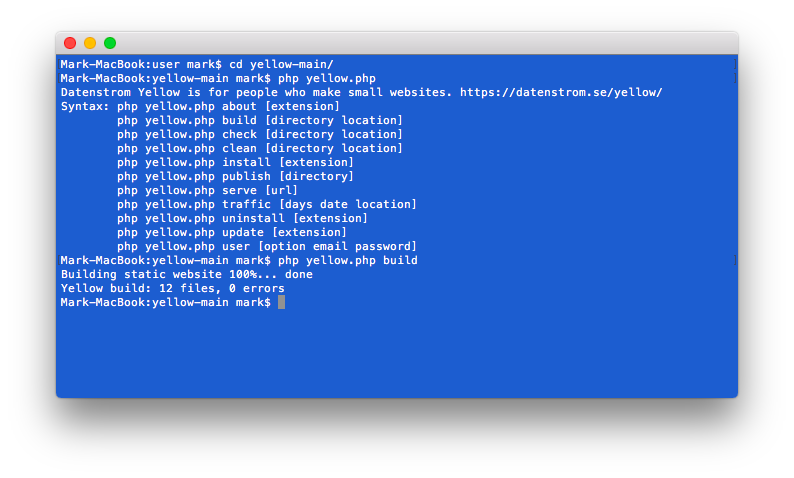
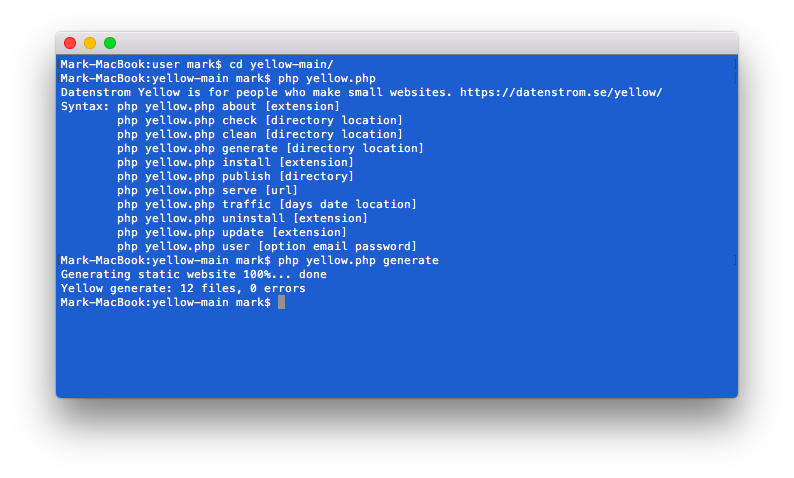
Updated static site generator

Changed region(s): [[0.0605, 0.5565, 0.4232, 0.6151], [0.272, 0.2343, 0.5441, 0.3222], [0.4836, 0.5272, 0.5743, 0.5565]]

diff --git a/static.php b/static.php
@@ -2,7 +2,7 @@
 // Static extension, https://github.com/annaesvensson/static-command
 
 class YellowStatic {
-    const VERSION = "0.8.49";
+    const VERSION = "0.8.50";
     public $yellow;                       // access to API
     public $files;                        // number of files
     public $links;                        // number of links
@@ -45,32 +45,32 @@ class YellowStatic {
     // Handle command
     public function onCommand($command, $text) {
         switch ($command) {
-            case "build":   $statusCode = $this->processCommandBuild($command, $text); break;
-            case "check":   $statusCode = $this->processCommandCheck($command, $text); break;
-            case "clean":   $statusCode = $this->processCommandClean($command, $text); break;
-            default:        $statusCode = 0;
+            case "generate": $statusCode = $this->processCommandGenerate($command, $text); break;
+            case "check":    $statusCode = $this->processCommandCheck($command, $text); break;
+            case "clean":    $statusCode = $this->processCommandClean($command, $text); break;
+            default:         $statusCode = 0;
         }
         return $statusCode;
     }
     
     // Handle command help
     public function onCommandHelp() {
-        return array("build [directory location]", "check [directory location]", "clean [directory location]");
+        return array("generate [directory location]", "check [directory location]", "clean [directory location]");
     }
 
-    // Process command to build static website
-    public function processCommandBuild($command, $text) {
+    // Process command to generate static website
+    public function processCommandGenerate($command, $text) {
         $statusCode = 0;
         list($path, $location) = $this->yellow->toolbox->getTextArguments($text);
         if (is_string_empty($location) || substru($location, 0, 1)=="/") {
             if ($this->checkStaticSettings()) {
-                $statusCode = $this->buildStaticFiles($path, $location);
+                $statusCode = $this->generateStaticFiles($path, $location);
             } else {
                 $statusCode = 500;
                 $this->files = 0;
                 $this->errors = 1;
                 $fileName = $this->yellow->system->get("coreExtensionDirectory").$this->yellow->system->get("coreSystemFile");
-                echo "ERROR building files: Please configure StaticUrl in file '$fileName'!\n";
+                echo "ERROR generating files: Please configure StaticUrl in file '$fileName'!\n";
             }
             echo "Yellow $command: $this->files file".($this->files!=1 ? "s" : "");
             echo ", $this->errors error".($this->errors!=1 ? "s" : "")."\n";
@@ -81,8 +81,8 @@ class YellowStatic {
         return $statusCode;
     }
     
-    // Build static files
-    public function buildStaticFiles($path, $locationFilter) {
+    // Generate static files
+    public function generateStaticFiles($path, $locationFilter) {
         $path = rtrim(is_string_empty($path) ? $this->yellow->system->get("staticDirectory") : $path, "/");
         $this->files = $this->errors = 0;
         $this->locationsArguments = $this->locationsArgumentsPagination = array();
@@ -92,43 +92,43 @@ class YellowStatic {
         $locations = $this->getContentLocations();
         $filesEstimated = count($locations);
         foreach ($locations as $location) {
-            echo "\rBuilding static website ".$this->getProgressPercent($this->files, $filesEstimated, 5, 60)."%... ";
+            echo "\rGenerating static website ".$this->getProgressPercent($this->files, $filesEstimated, 5, 60)."%... ";
             if (!preg_match("#^$base$locationFilter#", "$base$location")) continue;
-            $statusCode = max($statusCode, $this->buildStaticFile($path, $location, true));
+            $statusCode = max($statusCode, $this->generateStaticFile($path, $location, true));
         }
         foreach ($this->locationsArguments as $location) {
-            echo "\rBuilding static website ".$this->getProgressPercent($this->files, $filesEstimated, 5, 60)."%... ";
+            echo "\rGenerating static website ".$this->getProgressPercent($this->files, $filesEstimated, 5, 60)."%... ";
             if (!preg_match("#^$base$locationFilter#", "$base$location")) continue;
-            $statusCode = max($statusCode, $this->buildStaticFile($path, $location, true));
+            $statusCode = max($statusCode, $this->generateStaticFile($path, $location, true));
         }
         $filesEstimated = $this->files + count($this->locationsArguments) + count($this->locationsArgumentsPagination);
         foreach ($this->locationsArgumentsPagination as $location) {
-            echo "\rBuilding static website ".$this->getProgressPercent($this->files, $filesEstimated, 5, 95)."%... ";
+            echo "\rGenerating static website ".$this->getProgressPercent($this->files, $filesEstimated, 5, 95)."%... ";
             if (!preg_match("#^$base$locationFilter#", "$base$location")) continue;
             if (substru($location, -1)!=$this->yellow->toolbox->getLocationArgumentsSeparator()) {
-                $statusCode = max($statusCode, $this->buildStaticFile($path, $location, false, true));
+                $statusCode = max($statusCode, $this->generateStaticFile($path, $location, false, true));
             }
             for ($pageNumber=2; $pageNumber<=999; ++$pageNumber) {
-                $statusCodeLocation = $this->buildStaticFile($path, $location.$pageNumber, false, true);
+                $statusCodeLocation = $this->generateStaticFile($path, $location.$pageNumber, false, true);
                 $statusCode = max($statusCode, $statusCodeLocation);
                 if ($statusCodeLocation==100) break;
             }
         }
         if (is_string_empty($locationFilter)) {
             foreach ($this->getMediaLocations() as $location) {
-                $statusCode = max($statusCode, $this->buildStaticFile($path, $location));
+                $statusCode = max($statusCode, $this->generateStaticFile($path, $location));
             }
             foreach ($this->getExtraLocations($path) as $location) {
-                $statusCode = max($statusCode, $this->buildStaticFile($path, $location));
+                $statusCode = max($statusCode, $this->generateStaticFile($path, $location));
             }
-            $statusCode = max($statusCode, $this->buildStaticFile($path, "/error/", false, false, true));
+            $statusCode = max($statusCode, $this->generateStaticFile($path, "/error/", false, false, true));
         }
-        echo "\rBuilding static website 100%... done\n";
+        echo "\rGenerating static website 100%... done\n";
         return $statusCode;
     }
     
-    // Build static file
-    public function buildStaticFile($path, $location, $analyse = false, $probe = false, $error = false) {
+    // Generate static file
+    public function generateStaticFile($path, $location, $analyse = false, $probe = false, $error = false) {
         $this->yellow->content = new YellowContent($this->yellow);
         $this->yellow->page = new YellowPage($this->yellow);
         $this->yellow->page->fileName = substru($location, 1);
@@ -151,10 +151,10 @@ class YellowStatic {
         if ($statusCode>=200) ++$this->files;
         if ($statusCode>=400) {
             ++$this->errors;
-            echo "\rERROR building location '$location', ".$this->yellow->page->getStatusCode(true)."\n";
+            echo "\rERROR generating location '$location', ".$this->yellow->page->getStatusCode(true)."\n";
         }
         if ($this->yellow->system->get("coreDebugMode")>=1) {
-            echo "YellowStatic::buildStaticFile status:$statusCode location:$location<br/>\n";
+            echo "YellowStatic::generateStaticFile status:$statusCode location:$location<br/>\n";
         }
         return $statusCode;
     }
@@ -538,7 +538,7 @@ class YellowStatic {
         list($scheme, $address, $base) = $this->yellow->lookup->getUrlInformation($staticUrl);
         $this->yellow->page->setRequestInformation($scheme, $address, $base, "", "", false);
         foreach ($this->yellow->content->index(true, true) as $page) {
-            if (preg_match("/exclude/i", $page->get("build")) && !$includeAll) continue;
+            if (preg_match("/exclude/i", $page->get("generate")) && !$includeAll) continue;
             if ($page->get("status")=="private" || $page->get("status")=="draft") continue;
             array_push($locations, $page->location);
         }

diff --git a/README-de.md b/README-de.md
@@ -1,8 +1,8 @@
 <p align="right"><a href="README-de.md">Deutsch</a> &nbsp; <a href="README.md">English</a> &nbsp; <a href="README-sv.md">Svenska</a></p>
 
-# Static 0.8.49
+# Static 0.8.50
 
-Statische Webseite erstellen.
+Statische Webseite generieren.
 
 <p align="center"><img src="static-screenshot.png?raw=true" alt="Bildschirmfoto"></p>
 
@@ -10,31 +10,31 @@ Statische Webseite erstellen.
 
 [ZIP-Datei herunterladen](https://github.com/annaesvensson/yellow-static/archive/main.zip) und in dein `system/extensions`-Verzeichnis kopieren. [Weitere Informationen zu Erweiterungen](https://github.com/annaesvensson/yellow-update/tree/main/README-de.md).
 
-## Wie man eine statische Webseite erstellt
+## Wie man eine statische Webseite generiert
 
-Du kannst eine statische Webseite in der [Befehlszeile](https://github.com/annaesvensson/yellow-core/tree/main/README-de.md) erstellen. Der Static-Site-Generator erstellt die gesamte Webseite im Voraus, anstatt darauf zu warten dass eine Datei angefordert wird. Öffne ein Terminalfenster. Gehe ins Installations-Verzeichnis, dort wo sich die Datei `yellow.php` befindet. Gib ein `php yellow.php build`, du kannst wahlweise ein Verzeichnis und einen Ort angeben. Das erstellt eine statische Webseite im `public`-Verzeichnis. Lade die statische Webseite auf deinen Webserver hoch und erstelle bei Bedarf eine neue. Zum Überprüfen nach defekten Links gibt man ein: `php yellow.php check`. Zum Löschen gibt man ein: `php yellow.php clean`.
+Du kannst eine statische Webseite in der [Befehlszeile](https://github.com/annaesvensson/yellow-core/tree/main/README-de.md) generieren. Der Static-Site-Generator macht die gesamte Webseite im Voraus, anstatt darauf zu warten dass eine Datei angefordert wird. Öffne ein Terminalfenster. Gehe ins Installations-Verzeichnis, dort wo sich die Datei `yellow.php` befindet. Gib ein `php yellow.php generate`, du kannst wahlweise ein Verzeichnis und einen Ort angeben. Das generiert eine statische Webseite im `public`-Verzeichnis. Lade die statische Webseite auf deinen Webserver hoch und generiere bei Bedarf eine neue. Zum Überprüfen nach defekten Links gibt man ein: `php yellow.php check`. Zum Löschen gibt man ein: `php yellow.php clean`.
 
-Falls du nicht willst dass eine Seite erstellt wird, kannst du `Build: exclude` in den [Seiteneinstellungen](https://github.com/annaesvensson/yellow-core/tree/main/README-de.md#einstellungen-seite) ganz oben auf einer Seite festlegen.
+Falls du nicht willst dass eine Seite generiert wird, kannst du `Generate: exclude` in den [Seiteneinstellungen](https://github.com/annaesvensson/yellow-core/tree/main/README-de.md#einstellungen-seite) ganz oben auf einer Seite festlegen.
 
-## Wie man einen statischen Zwischenspeicher erstellt
+## Wie man einen statischen Zwischenspeicher generiert
 
-Du kannst einen statischen Zwischenspeicher in der [Befehlszeile](https://github.com/annaesvensson/yellow-core/tree/main/README-de.md) erstellen. Der statische Zwischenspeicher unterstützt eine normale Webseite, indem er einige Dateien im Voraus erstellt und im Dateisystem abspeichert. Man kann es sich auch so vorstellen, dass man die Funktionen einer statischen Webseite und die Funktionen einer normalen Webseite kombiniert. Öffne ein Terminalfenster. Gehe ins Installations-Verzeichnis, dort wo sich die Datei `yellow.php` befindet. Gib ein `php yellow.php build system/cache`. Das erstellt einen Zwischenspeicher im `system/cache`-Verzeichnis. Erstelle bei Bedarf einen neuen Zwischenspeicher. Zum Löschen gibt man ein: `php yellow.php clean system/cache`.
+Du kannst einen statischen Zwischenspeicher in der [Befehlszeile](https://github.com/annaesvensson/yellow-core/tree/main/README-de.md) generieren. Der statische Zwischenspeicher unterstützt eine normale Webseite, indem er einige Dateien im Voraus generiert und im Dateisystem abspeichert. Man kann es sich auch so vorstellen, dass man die Funktionen einer statischen Webseite und die Funktionen einer normalen Webseite kombiniert. Öffne ein Terminalfenster. Gehe ins Installations-Verzeichnis, dort wo sich die Datei `yellow.php` befindet. Gib ein `php yellow.php generate system/cache`. Das generiert einen Zwischenspeicher im `system/cache`-Verzeichnis. Generiere bei Bedarf einen neuen Zwischenspeicher. Zum Löschen gibt man ein: `php yellow.php clean system/cache`.
 
-Falls du nicht willst dass eine Seite erstellt wird, kannst du `Build: exclude` in den [Seiteneinstellungen](https://github.com/annaesvensson/yellow-core/tree/main/README-de.md#einstellungen-seite) ganz oben auf einer Seite festlegen.
+Falls du nicht willst dass eine Seite generiert wird, kannst du `Generate: exclude` in den [Seiteneinstellungen](https://github.com/annaesvensson/yellow-core/tree/main/README-de.md#einstellungen-seite) ganz oben auf einer Seite festlegen.
 
 ## Beispiele
 
-Inhaltsdatei mit Option zum Erstellen einer statischen Webseite:
+Inhaltsdatei mit Option zum Generieren einer statischen Webseite:
 
     ---
     Title: Beispielseite
-    Build: exclude
+    Generate: exclude
     ---
     Diese Seite ist in einer statischen Webseite nicht enthalten.
 
-Statische Webseite in der Befehlszeile erstellen:
+Statische Webseite in der Befehlszeile generieren:
 
-`php yellow.php build`  
+`php yellow.php generate`  
 
 Statische Webseite in der Befehlszeile nach fehlerhaften Links überprüfen:
 

diff --git a/README-sv.md b/README-sv.md
@@ -1,8 +1,8 @@
 <p align="right"><a href="README-de.md">Deutsch</a> &nbsp; <a href="README.md">English</a> &nbsp; <a href="README-sv.md">Svenska</a></p>
 
-# Static 0.8.49
+# Static 0.8.50
 
-Bygg en statisk webbplats.
+Generera en statisk webbplats.
 
 <p align="center"><img src="static-screenshot.png?raw=true" alt="Skärmdump"></p>
 
@@ -10,31 +10,31 @@ Bygg en statisk webbplats.
 
 [Ladda ner ZIP-filen](https://github.com/annaesvensson/yellow-static/archive/main.zip) och kopiera den till din `system/extensions` mapp. [Läs mer om tillägg](https://github.com/annaesvensson/yellow-update/tree/main/README-sv.md).
 
-## Hur man bygger en statisk webbplats
+## Hur man genererar en statisk webbplats
 
-Du kan bygga en statisk webbplats på [kommandoraden](https://github.com/annaesvensson/yellow-core/tree/main/README-sv.md). Den static-site-generatorn bygger hella webbsidan i förväg, istället för att vänta på att en fil ska begäras. Öppna ett terminalfönster. Gå till installationsmappen där filen `yellow.php` finns. Skriv `php yellow.php build`, du kan valfritt ange en mapp och en plats. Detta kommer att bygga en statisk webbplats i `public` mappen. Ladda upp den statiska webbplatsen till din webbserver och bygg en ny när det behövs. För att söka efter trasiga länkar skriv: `php yellow.php check`. För att rengöra statiska webbplatsen skriv: `php yellow.php clean`.
+Du kan generera en statisk webbplats på [kommandoraden](https://github.com/annaesvensson/yellow-core/tree/main/README-sv.md). Den static-site-generatorn skapar hella webbsidan i förväg, istället för att vänta på att en fil ska begäras. Öppna ett terminalfönster. Gå till installationsmappen där filen `yellow.php` finns. Skriv `php yellow.php generate`, du kan valfritt ange en mapp och en plats. Detta kommer att generera en statisk webbplats i `public` mappen. Ladda upp den statiska webbplatsen till din webbserver och generera en ny när det behövs. För att söka efter trasiga länkar skriv: `php yellow.php check`. För att rengöra statiska webbplatsen skriv: `php yellow.php clean`.
 
-Om du inte vill att en sida ska byggas, ställ in `Build: exclude` i [sidinställningar](https://github.com/annaesvensson/yellow-core/tree/main/README-sv.md#inställningar-page) högst upp på en sida.
+Om du inte vill att en sida ska genereras, ställ in `Generate: exclude` i [sidinställningar](https://github.com/annaesvensson/yellow-core/tree/main/README-sv.md#inställningar-page) högst upp på en sida.
 
-## Hur man bygger en statisk cache
+## Hur man genererar en statisk cache
 
-Du kan skapa en statisk cache på [kommandoraden](https://github.com/annaesvensson/yellow-core/tree/main/README-sv.md). Den statiska cachen stöder en vanlig webbplats genom att bygga några filer i förväg och lagra dem i filsystemet. Du kan också tänka på det som att kombinera funktionerna hos en statisk webbplats och funktionerna hos en vanlig webbplats. Öppna ett terminalfönster. Gå till installationsmappen där filen `yellow.php` finns. Skriv `php yellow.php build system/cache`. Detta kommer att bygga en cache i `system/cache` mappen. Skapa en ny cache vid behov. För att rensa cachen skriv: `php yellow.php clean system/cache`.
+Du kan skapa en statisk cache på [kommandoraden](https://github.com/annaesvensson/yellow-core/tree/main/README-sv.md). Den statiska cachen stöder en vanlig webbplats genom att generera några filer i förväg och lagra dem i filsystemet. Du kan också tänka på det som att kombinera funktionerna hos en statisk webbplats och funktionerna hos en vanlig webbplats. Öppna ett terminalfönster. Gå till installationsmappen där filen `yellow.php` finns. Skriv `php yellow.php generate system/cache`. Detta kommer att generera en cache i `system/cache` mappen. Skapa en ny cache vid behov. För att rensa cachen skriv: `php yellow.php clean system/cache`.
 
-Om du inte vill att en sida ska byggas, ställ in `Build: exclude` i [sidinställningar](https://github.com/annaesvensson/yellow-core/tree/main/README-sv.md#inställningar-page) högst upp på en sida.
+Om du inte vill att en sida ska genereras, ställ in `Generate: exclude` i [sidinställningar](https://github.com/annaesvensson/yellow-core/tree/main/README-sv.md#inställningar-page) högst upp på en sida.
 
 ## Exempel
 
-Innehållsfil med alternativ för att bygga en statisk webbplats:
+Innehållsfil med alternativ för att generera en statisk webbplats:
 
     ---
     Title: Exempelsida
-    Build: exclude
+    Generate: exclude
     ---
     Den här sidan ingår inte i en statisk webbplats.
 
-Bygg statisk webbplats på kommandoraden: 
+Generera statisk webbplats på kommandoraden: 
 
-`php yellow.php build`  
+`php yellow.php generate`  
 
 Kontrollera statisk webbplats för trasiga länkar på kommandoraden:
 

diff --git a/README.md b/README.md
@@ -1,8 +1,8 @@
 <p align="right"><a href="README-de.md">Deutsch</a> &nbsp; <a href="README.md">English</a> &nbsp; <a href="README-sv.md">Svenska</a></p>
 
-# Static 0.8.49
+# Static 0.8.50
 
-Build a static website.
+Generate a static website.
 
 <p align="center"><img src="static-screenshot.png?raw=true" alt="Screenshot"></p>
 
@@ -10,31 +10,31 @@ Build a static website.
 
 [Download ZIP file](https://github.com/annaesvensson/yellow-static/archive/main.zip) and copy it into your `system/extensions` folder. [Learn more about extensions](https://github.com/annaesvensson/yellow-update).
 
-## How to build a static website
+## How to generate a static website
 
-You can build a static website at the [command line](https://github.com/annaesvensson/yellow-core). The static site generator builds the entire website in advance, instead of waiting for a file to be requested. Open a terminal window. Go to your installation folder, where the file `yellow.php` is. Type `php yellow.php build`, you can optionally add a folder and a location. This will build a static website in the `public` folder. Upload the static website to your web server and build a new one when needed. To check for broken links type: `php yellow.php check`. To clean the static website type: `php yellow.php clean`.
+You can generate a static website at the [command line](https://github.com/annaesvensson/yellow-core). The static site generator makes the entire website in advance, instead of waiting for a file to be requested. Open a terminal window. Go to your installation folder, where the file `yellow.php` is. Type `php yellow.php generate`, you can optionally add a folder and a location. This will generate a static website in the `public` folder. Upload the static website to your web server and generate a new one when needed. To check for broken links type: `php yellow.php check`. To clean the static website type: `php yellow.php clean`.
 
-If you don't want that a page is built, set `Build: exclude` in the [page settings](https://github.com/annaesvensson/yellow-core#settings-page) at the top of a page.
+If you don't want that a page is generated, set `Generate: exclude` in the [page settings](https://github.com/annaesvensson/yellow-core#settings-page) at the top of a page.
 
-## How to build a static cache
+## How to generate a static cache
 
-You can build a static cache at the [command line](https://github.com/annaesvensson/yellow-core). The static cache supports a normal website by building some files in advance and storing them in the file system. You can also think of it as combining the features of a static website and the features of a normal website. Open a terminal window. Go to your installation folder, where the file `yellow.php` is. Type `php yellow.php build system/cache`. This will build a cache in the `system/cache` folder. Build a new cache when needed. To clean the cache type: `php yellow.php clean system/cache`.
+You can generate a static cache at the [command line](https://github.com/annaesvensson/yellow-core). The static cache supports a normal website by generating some files in advance and storing them in the file system. You can also think of it as combining the features of a static website and the features of a normal website. Open a terminal window. Go to your installation folder, where the file `yellow.php` is. Type `php yellow.php generate system/cache`. This will generate a cache in the `system/cache` folder. Generate a new cache when needed. To clean the cache type: `php yellow.php clean system/cache`.
 
-If you don't want that a page is built, set `Build: exclude` in the [page settings](https://github.com/annaesvensson/yellow-core#settings-page) at the top of a page.
+If you don't want that a page is generated, set `Generate: exclude` in the [page settings](https://github.com/annaesvensson/yellow-core#settings-page) at the top of a page.
 
 ## Examples
 
-Content file with option for building a static website:
+Content file with option for generating a static website:
 
     ---
     Title: Example page
-    Build: exclude
+    Generate: exclude
     ---
     This page is not included in a static website.
 
-Building static website at the command line:
+Generating static website at the command line:
 
-`php yellow.php build`  
+`php yellow.php generate`  
 
 Checking static website for broken links at the command line:
 
